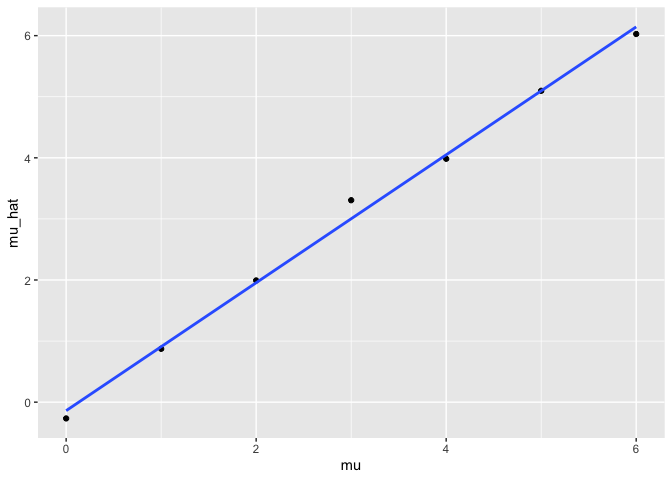
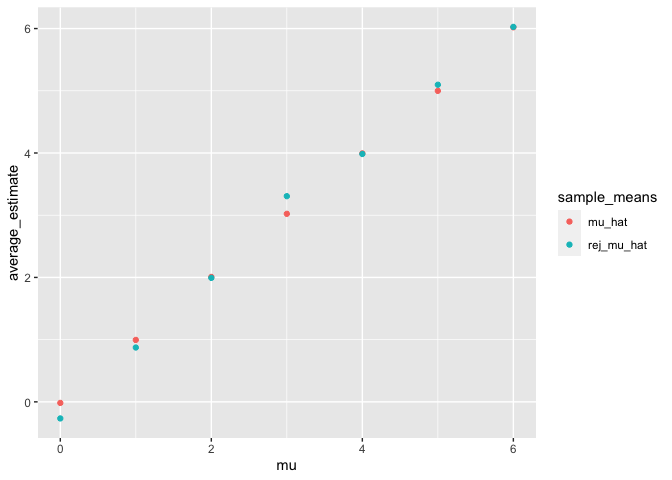
change the last plot, overlay two plots and colored by different group, and re-knit

diff --git a/p8105_hw5_yj2752.md b/p8105_hw5_yj2752.md
@@ -219,13 +219,22 @@ Use `summarise()` to get what we need for the plot ($\hat{\mu}$ and
 proportion of null rejection).
 
 ``` r
-result_df <-
+df_rej <-
   result_df %>%
     filter(p.value < 0.05) %>%
     group_by(mu) %>%
-    summarise(mu_hat = mean(estimate),
+    summarise(rej_mu_hat = mean(estimate),
               rej_prop = n()/5000)
+
+df_all <-
+  result_df %>%
+  group_by(mu) %>%
+    summarise(mu_hat = mean(estimate))
+
+result_df <- full_join(df_all,df_rej)
 ```
+
+    ## Joining, by = "mu"
 
 ``` r
 result_df %>%
@@ -238,9 +247,11 @@ result_df %>%
 
 ``` r
 result_df %>%
-  ggplot(aes(x = mu,y = mu_hat)) +
-  geom_point() +
-  geom_smooth(method='lm',formula = y ~ x,se = FALSE)
+  pivot_longer(mu_hat:rej_mu_hat, 
+               names_to = "sample_means",
+               values_to = "average_estimate") %>%
+  ggplot(aes(x = mu,y = average_estimate, color = sample_means)) +
+  geom_point()
 ```
 
 ![](p8105_hw5_yj2752_files/figure-gfm/unnamed-chunk-16-1.png)<!-- -->
